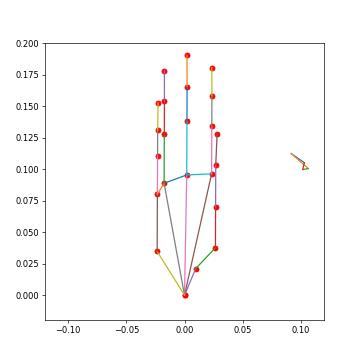
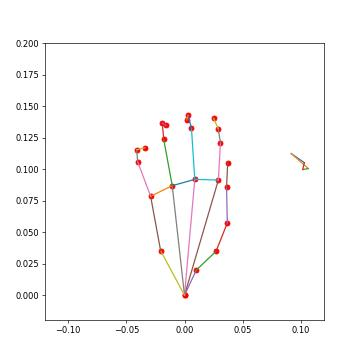
franka commands are in eef pose, so dont plot them

Changed region(s): [[0.3667, 0.1833, 0.6417, 0.825], [0.4889, 0.1528, 0.55, 0.275]]

diff --git a/visualize_demo.py b/visualize_demo.py
@@ -333,7 +333,7 @@ def make_joint_state_plots(angles, cmds, gripper_pos, gripper_cmd, idcs):
             ax.set_title(f"Gripper", antialiased=True)
         else:
             ax.plot(angles[:, i], antialiased=True)
-            ax.plot(cmds[:, i], antialiased=True)
+            # ax.plot(cmds[:, i], antialiased=True) # CMDs are cartesian space deltas, don't visualize for now
             ax.set_title(f"Joint {i+1}", antialiased=True)
         ax.grid()
         # draw a vertical red line corresponding to the timestep
